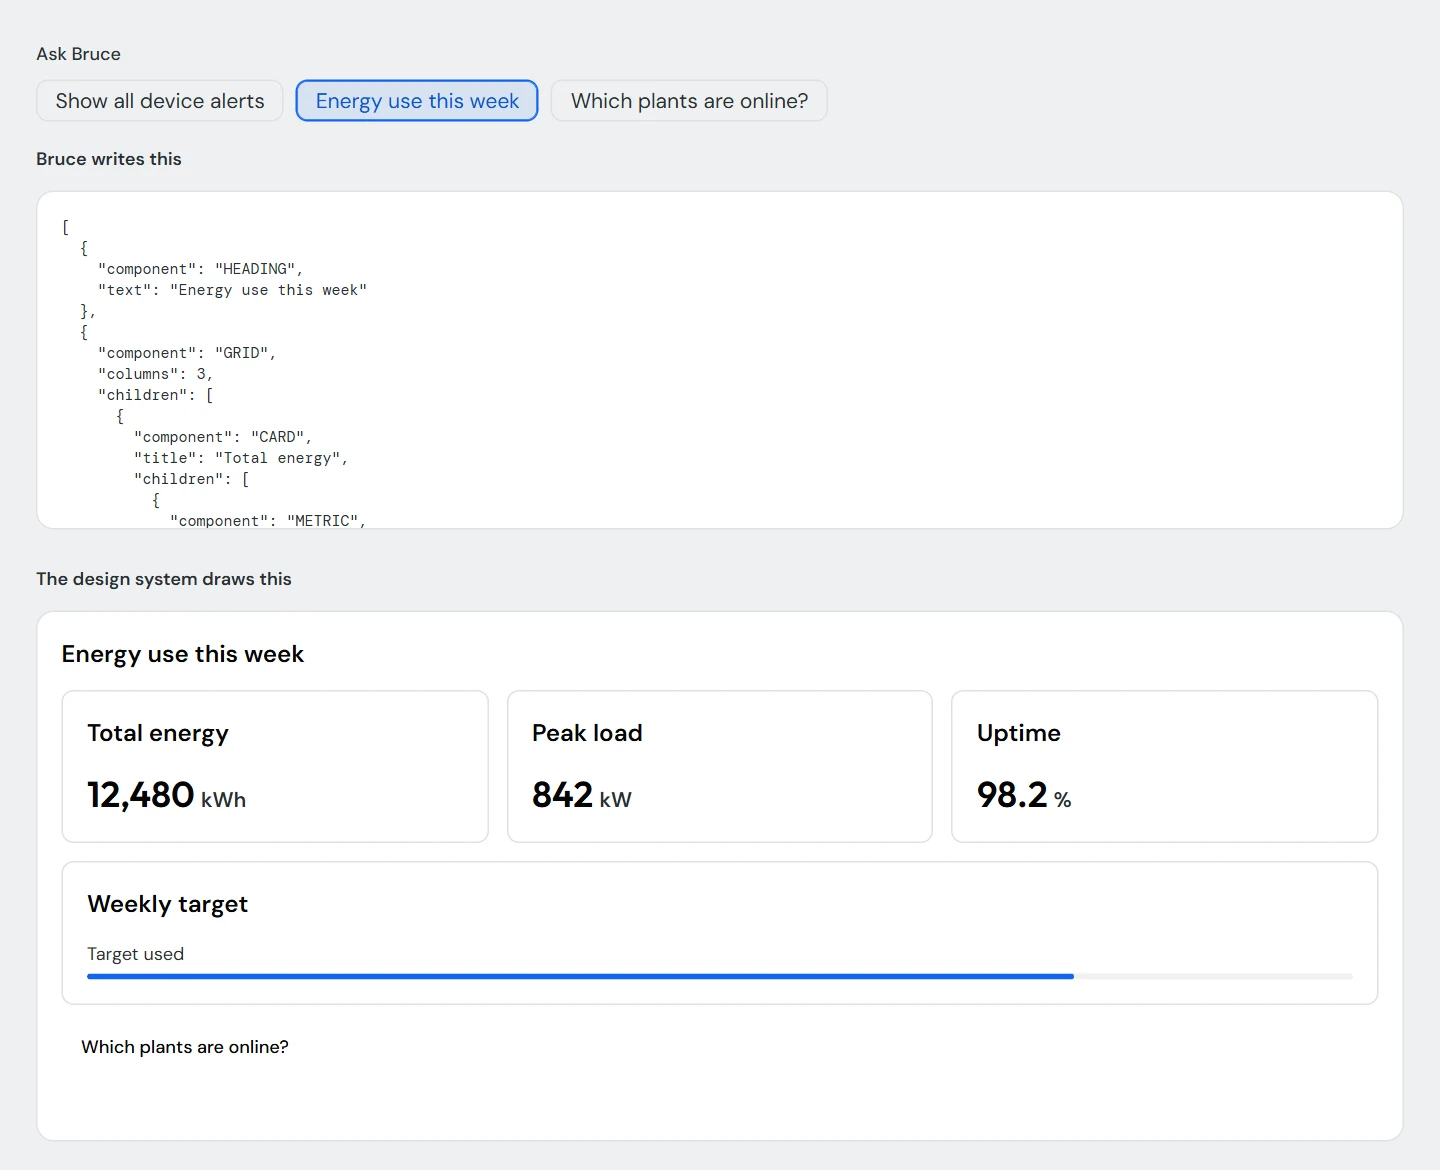
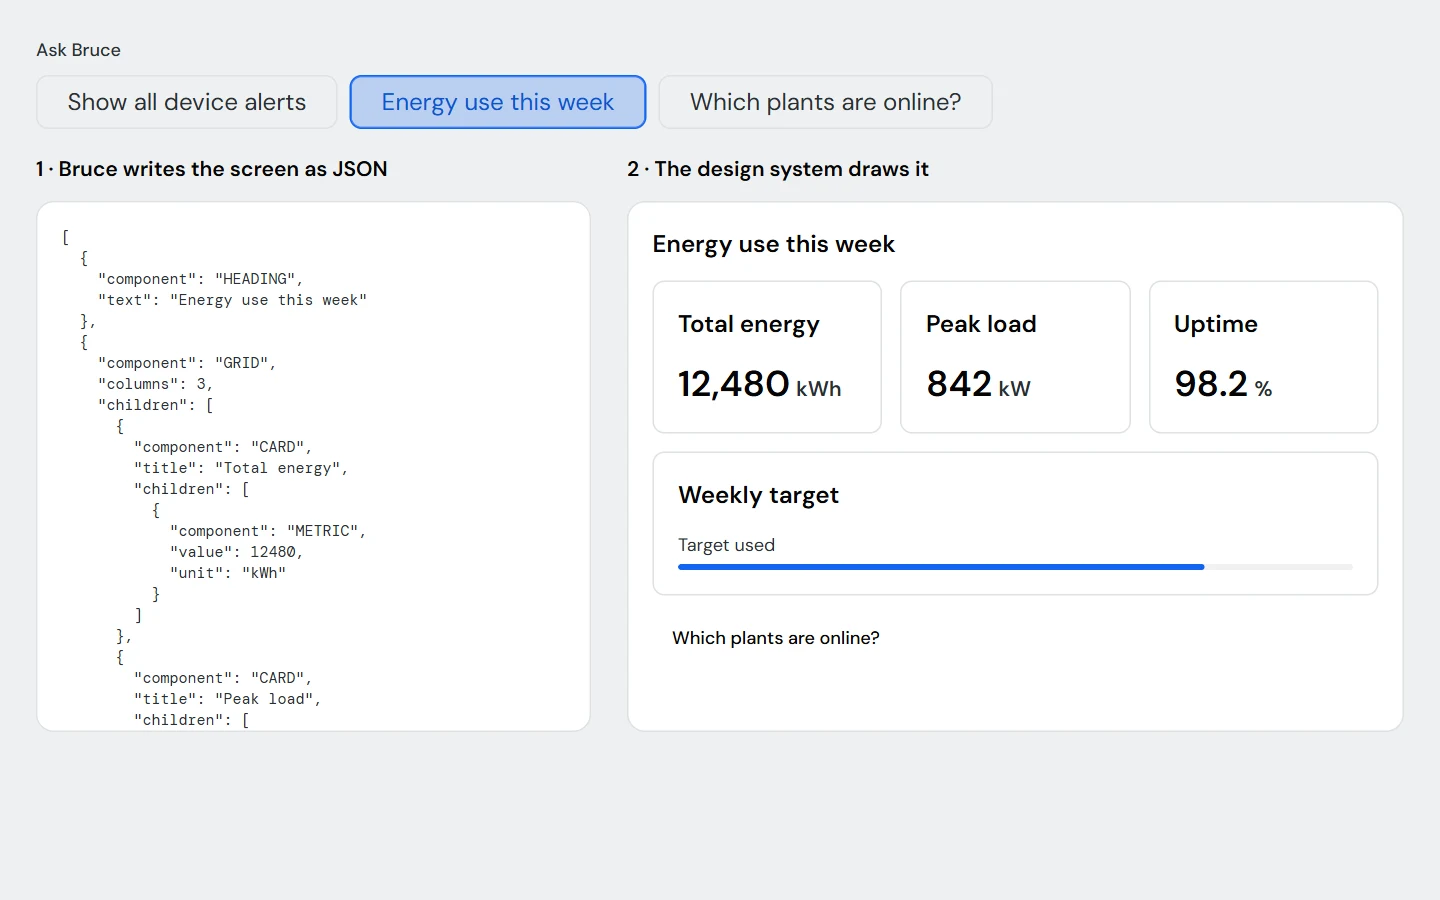
Bruce prototype: JSON and drawn screen side by side, autoplay, hint dot on the next question

diff --git a/src/components/FdsDemo.jsx b/src/components/FdsDemo.jsx
@@ -238,6 +238,15 @@ export default function FdsDemo() {
     }, 900)
   }
 
+  // The stand-alone copy ("Try the flow") plays the first question by itself, so the two panes are never empty and a visitor sees the idea
+  // before touching anything. The copy under the case study's timeline does not: its first stage is "nothing asked yet".
+  useEffect(() => {
+    if (!solo) return undefined
+    const t = setTimeout(() => ask(ORDER[0]), 700)
+    return () => clearTimeout(t)
+    // eslint-disable-next-line react-hooks/exhaustive-deps
+  }, [solo])
+
   // tell the case study's timeline which stage this is
   useEffect(() => {
     if (!solo && window.parent !== window) window.parent.postMessage({ type: 'proto:step', step: stage }, window.location.origin)
@@ -264,28 +273,29 @@ export default function FdsDemo() {
 
   return (
     <div className="fdsd">
-      <Glow block on={stage === 'ask' || stage === 'draw'}>
-        <div style={{ width: '100%' }}>
-          <ChipGroup label={`Ask ${AI_NAME}`} selectionType="single" value={asked ?? ''} onChange={({ values }) => values[0] && ask(values[0])}>
-            {ORDER.map((id) => (
-              <Chip key={id} value={id}>{ANSWERS[id].label}</Chip>
-            ))}
-          </ChipGroup>
-        </div>
-      </Glow>
+      {/* the hint dot sits on the next question to try (the first one before anything is asked), and there is no second pointer: the visitor already has a cursor */}
+      <ChipGroup label={`Ask ${AI_NAME}`} size="Medium" selectionType="single" value={asked ?? ''} onChange={({ values }) => values[0] && ask(values[0])}>
+        {ORDER.map((id, i) => (
+          <Glow key={id} pointer={false} on={(stage === 'ask' || stage === 'draw') && id === ORDER[asked ? (ORDER.indexOf(asked) + 1) % ORDER.length : 0]}>
+            <Chip value={id}>{ANSWERS[id].label}</Chip>
+          </Glow>
+        ))}
+      </ChipGroup>
 
       <div className="fdsd__panes">
         <section className="fdsd__pane" aria-label={`What ${AI_NAME} writes`}>
-          <div className="BodySmallSemibold fdsd__label">{AI_NAME} writes this</div>
-          {asked ? (
-            <pre className="CodeSmallRegular fdsd__code" tabIndex={0} aria-label={`The JSON that ${AI_NAME} wrote`}>{JSON.stringify(ANSWERS[asked].nodes, null, 2)}</pre>
-          ) : (
-            <p className="BodyMediumRegular fdsd__empty">Pick a question. {AI_NAME} answers by writing the screen as JSON.</p>
-          )}
+          <div className="BodyMediumSemibold fdsd__label">1 · {AI_NAME} writes the screen as JSON</div>
+          <div className="fdsd__codewrap">
+            {asked ? (
+              <pre className="CodeSmallRegular fdsd__code" tabIndex={0} aria-label={`The JSON that ${AI_NAME} wrote`}>{JSON.stringify(ANSWERS[asked].nodes, null, 2)}</pre>
+            ) : (
+              <p className="BodyMediumRegular fdsd__empty">Pick a question. {AI_NAME} answers by writing the screen as JSON.</p>
+            )}
+          </div>
         </section>
 
         <section className="fdsd__pane" aria-label="What the design system draws">
-          <div className="BodySmallSemibold fdsd__label">The design system draws this</div>
+          <div className="BodyMediumSemibold fdsd__label">2 · The design system draws it</div>
           <div className="fdsd__screen" aria-live="polite" aria-busy={busy}>
             {stage === 'done' && (
               <Alert

diff --git a/src/components/fdsDemo.css b/src/components/fdsDemo.css
@@ -10,25 +10,44 @@
   text-align: left;
 }
 
-/* the AI writes first, the design system draws below it: stacked, so the drawn screen gets the full width */
+/* what the AI writes sits beside what the design system draws from it, so cause and effect are seen together; on a narrow frame they stack */
 .fdsd__panes {
   display: grid;
   gap: var(--spacing-24);
   grid-template-columns: minmax(0, 1fr);
 }
 
-@media (max-width: 760px) {
+@media (min-width: 760px) {
+  .fdsd__panes {
+    grid-template-columns: minmax(0, 5fr) minmax(0, 7fr);
+    align-items: stretch;
+  }
+}
+
+@media (max-width: 759px) {
   .fdsd { padding: var(--spacing-16); }
 }
 
 .fdsd__pane {
   display: grid;
+  grid-template-rows: auto 1fr;
   gap: var(--spacing-12);
   min-width: 0;
 }
 
 .fdsd__label {
-  color: var(--text-neutral-subtle);
+  color: var(--text-neutral-normal);
+}
+
+/* the JSON's box takes the height of the drawn screen beside it and scrolls inside */
+.fdsd__codewrap {
+  position: relative;
+  min-width: 0;
+}
+
+@media (min-width: 760px) {
+  .fdsd__codewrap { min-height: calc(var(--spacing-64) * 5); }
+  .fdsd__codewrap .fdsd__code { position: absolute; inset: 0; max-height: none; }
 }
 
 /* the JSON the AI writes */

diff --git a/src/embed/Glow.jsx b/src/embed/Glow.jsx
@@ -2,11 +2,12 @@ import { MousePointer2 } from 'lucide-react'
 
 // The prototype's hint: a soft glowing ring and a small pointer next to the thing to click. It sits over the control without
 // blocking it (the click goes straight through to the control). Nothing is drawn when `on` is false.
-export default function Glow({ on, block = false, children }) {
+// `pointer={false}` leaves out the little pointer (only the dot is shown).
+export default function Glow({ on, block = false, pointer = true, children }) {
   return (
     <span className={`glow${block ? ' glow--block' : ''}${on ? ' glow--on' : ''}`}>
       {children}
-      {on && <MousePointer2 className="glow__cursor" size={22} aria-hidden="true" />}
+      {on && pointer && <MousePointer2 className="glow__cursor" size={22} aria-hidden="true" />}
     </span>
   )
 }
